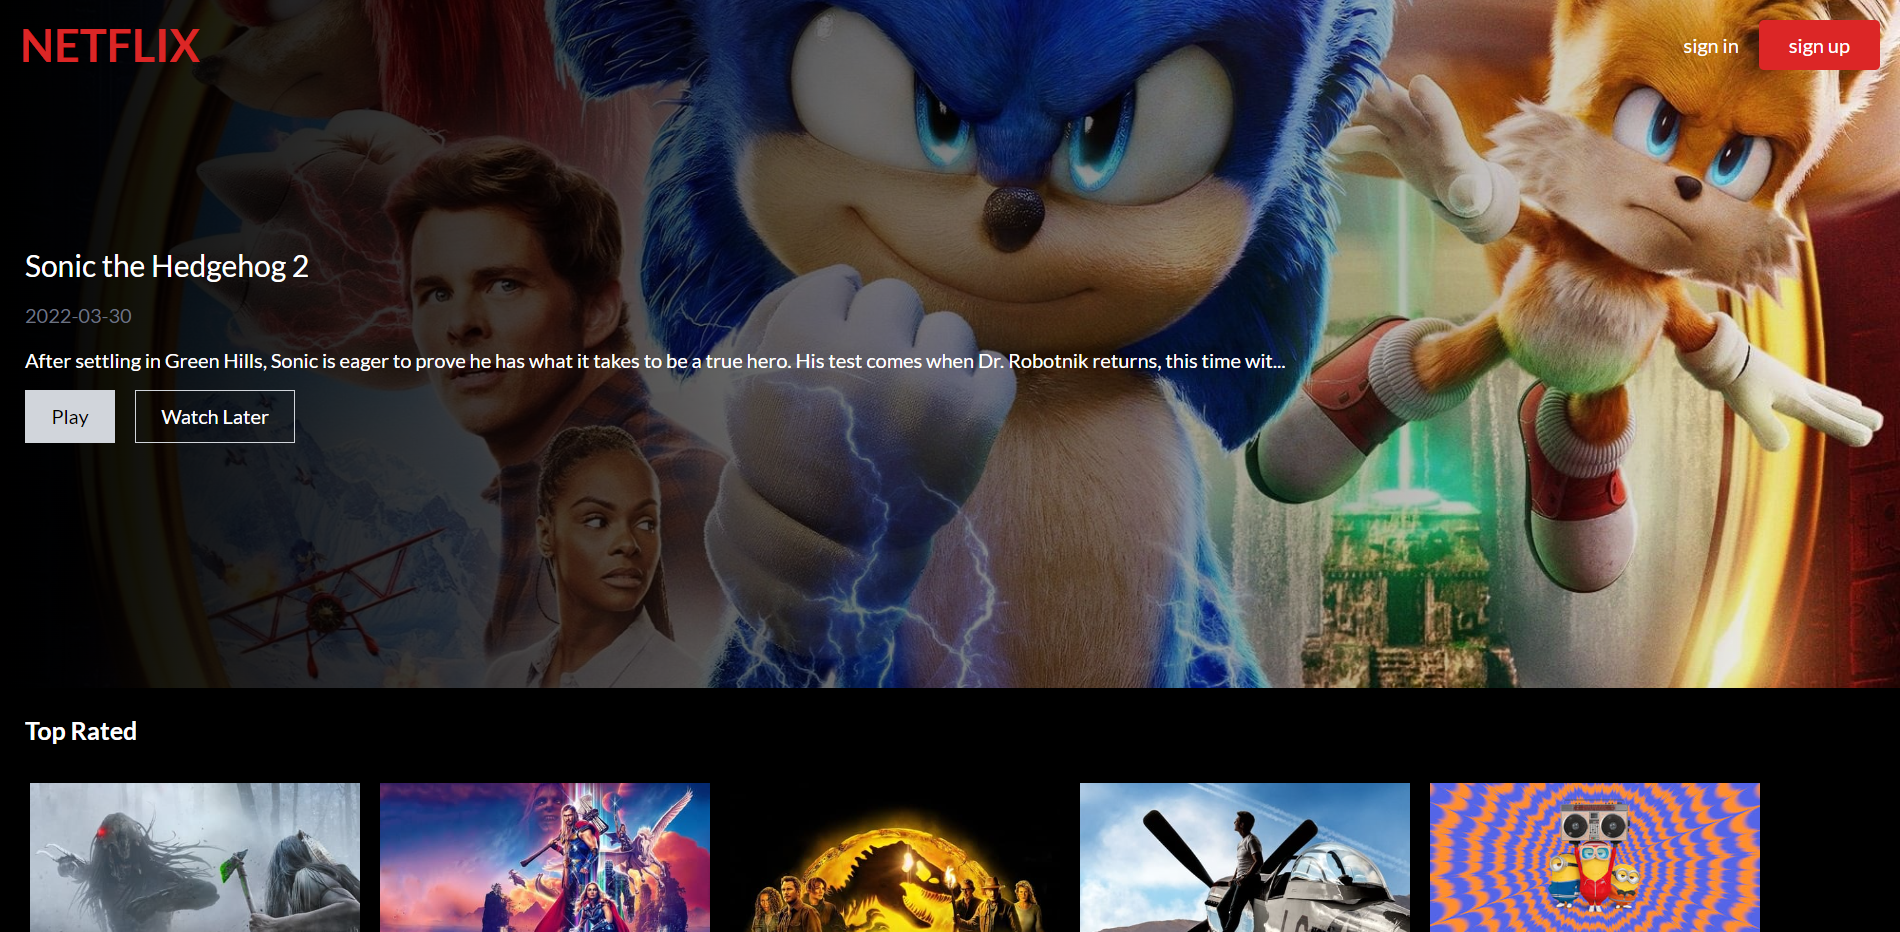
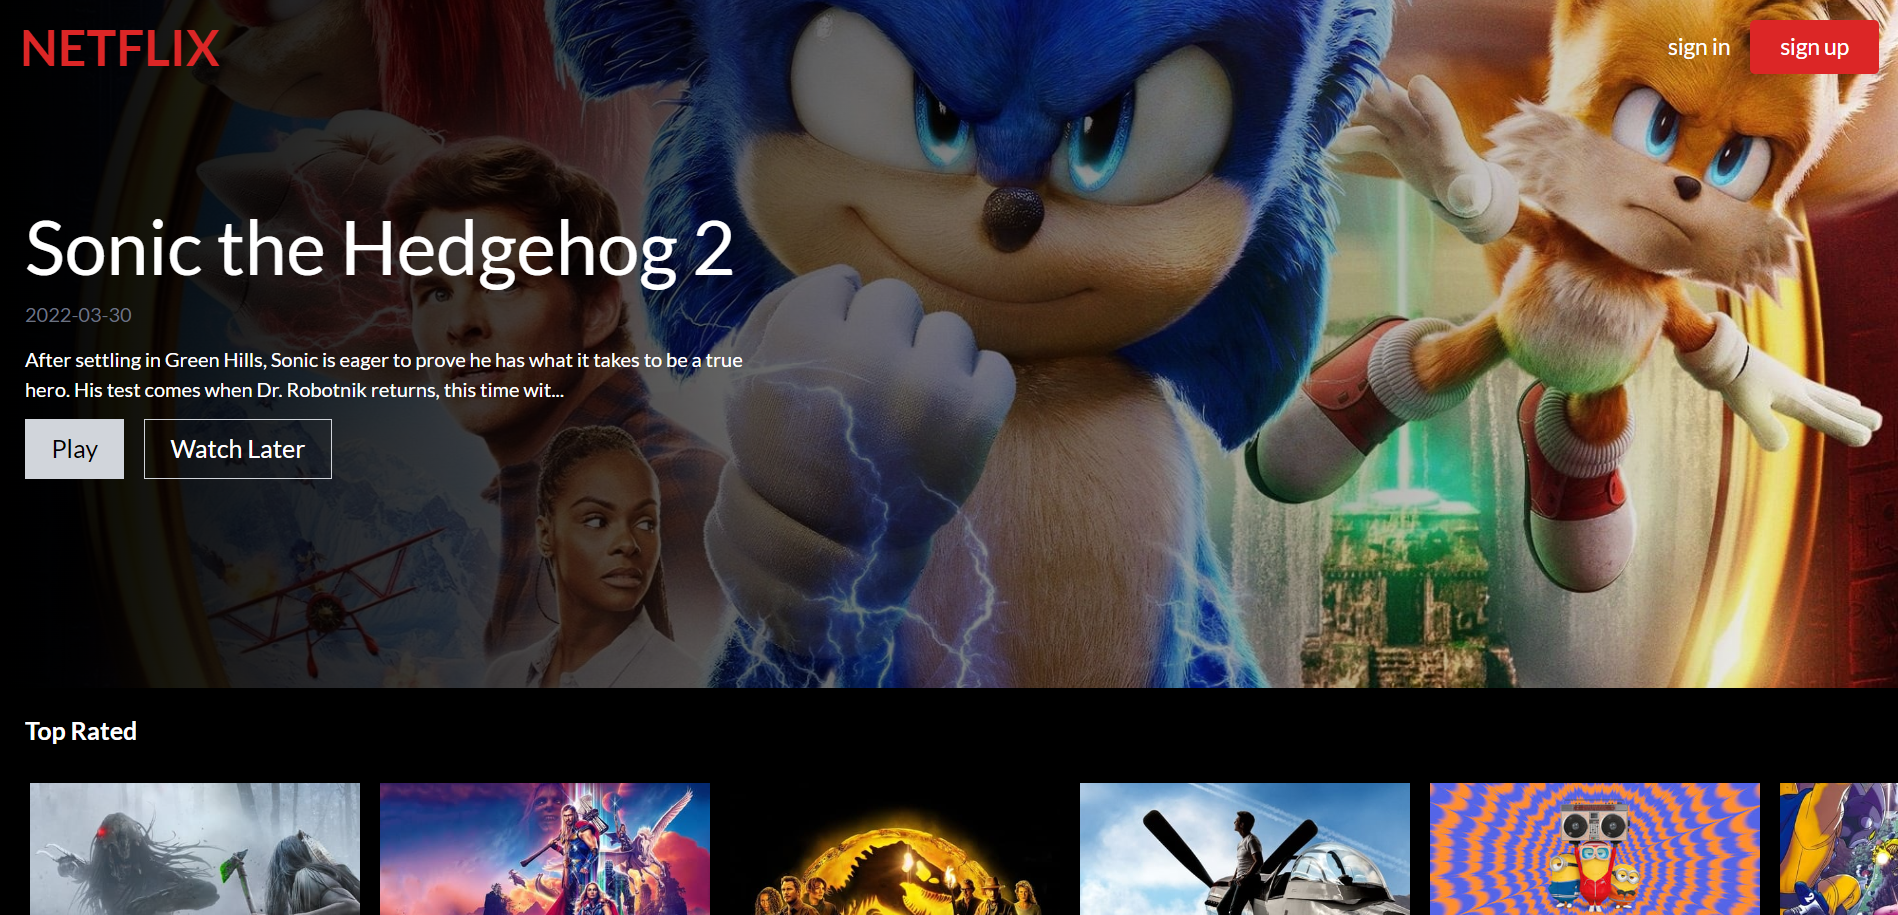
made it more responsive

diff --git a/src/components/Main/Hero.jsx b/src/components/Main/Hero.jsx
@@ -30,14 +30,14 @@ const Hero = () => {
                 title={randomeMovie?.title} 
                 />
                 <div className='flex flex-col gap-3 px-5 absolute w-full h-[550px] top-0 justify-center'>
-                    <h1 className=' text-2xl'>{randomeMovie?.title} </h1>
+                    <h1 className='text-2xl sm:text-4xl md:text-6xl'>{randomeMovie?.title} </h1>
                     <span className=' text-gray-500'>{randomeMovie?.release_date}</span>
-                    <span className=' w-full md:max-w-[70%]'>
+                    <span className=' w-full max-w-[90%] sm:max-w-[70%] md:max-w-[40%]'>
                         {etc(randomeMovie?.overview, 150)}
                         </span>
                     <div>
-                        <button className='border bg-gray-300 text-black border-gray-300 py-2 px-5'>Play</button>
-                        <button className='border text-white border-gray-300 py-2 px-5 ml-4'>Watch Later</button>
+                        <button className='border bg-gray-300 text-black border-gray-300 py-2 px-5 text-[10px] sm:text-[15px] md:text-[20px]'>Play</button>
+                        <button className='border text-white border-gray-300 py-2 px-5 ml-4 text-[10px] sm:text-[15px] md:text-[20px]'>Watch Later</button>
                     </div>
                 </div>
             </div>

diff --git a/src/components/navBar/NavBar.jsx b/src/components/navBar/NavBar.jsx
@@ -4,14 +4,14 @@ const NavBar = () => {
     return(
         <div className="flex items-center justify-between p-4 z-[100] w-full absolute">
             <Link to='/'>
-                <h1 className="text-red-600 text-4xl font-bold cursor-pointer">NETFLIX</h1>
+                <h1 className="text-red-600 text-4xl font-bold cursor-pointer text-[20px] sm:text-[30px] md:text-[40px]">NETFLIX</h1>
             </Link>
             <div className="flex items-center">
                 <Link to='/login'>
-                    <button className="text-white pr-4">sign in</button>
+                    <button className="text-white pr-4 text-[10px]  sm:text-[15px] md:text-[18px] ">sign in</button>
                 </Link>
                 <Link to='/signup'>
-                    <button className="bg-red-600 px-6 py-2 rounded cursor-pointer text-white">sign up</button>
+                    <button className="bg-red-600 px-6 py-2 rounded cursor-pointer text-white text-[10px] sm:text-[15px] md:text-[18px]">sign up</button>
                 </Link>
             </div>
         </div>

diff --git a/src/components/Main/Movie.jsx b/src/components/Main/Movie.jsx
@@ -3,7 +3,7 @@ import { FaHeart, FaRegHeart } from 'react-icons/fa';
 const Movie = ({item}) => {
     const[favourite,setFavourite] = React.useState(false)
     return (
-        <div className='w-[160px] sm:w-[200px] md:w-[240px] lg:w-[280px] inline-block cursor-pointer relative p-2 text-white'>
+        <div className='w-[160px] sm:w-[200px] md:w-[240px] lg:w-[280px] inline-block cursor-pointer relative p-2 text-white flex-shrink-0'>
         <img 
         className='w-full h-auto block'
         src={`https://image.tmdb.org/t/p/w500/${item?.backdrop_path}`} 

diff --git a/src/components/Main/Row.jsx b/src/components/Main/Row.jsx
@@ -21,7 +21,7 @@ const Row = ({ title, fetchURL, rowID }) => {
         <div>
             <h2 className='text-white font-bold md:text-xl p-5'>{title}</h2>
             <div className='relative flex items-center'>
-                <div className='px-4' id='slider'>
+                <div className=' w-[100%] px-4 flex overflow-scroll' id='slider'>
                     {movie.map((item, id) => (
                         <Movie key={id} item={item}/>
                     ))}

diff --git a/src/app/App.css b/src/app/App.css
@@ -1,0 +1,3 @@
+div::-webkit-scrollbar {
+    display: none;
+}
